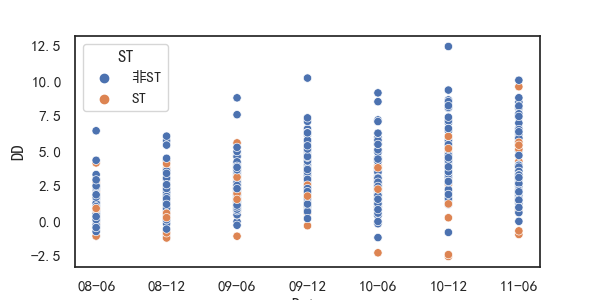
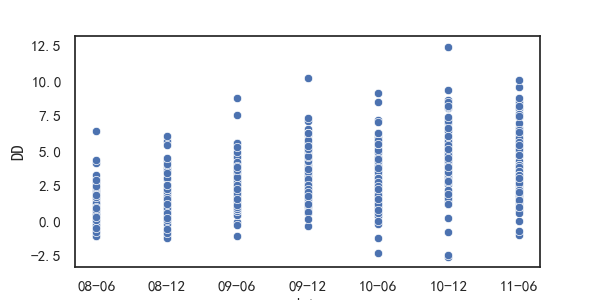
完成文字稿

diff --git a/src/kmv.py b/src/kmv.py
@@ -56,7 +56,7 @@ if __name__ == "__main__":
     model = KMV()
     dd = model.distance_to_default()
     res = dd.stack().reset_index()
-    res.columns = ["Date", "Stock", "DD"]
+    res.columns = ["date", "Stock", "DD"]
     st = (
         pd.read_excel(
             project_root / "data/sts.xlsx", usecols=["stock", "name", "date", "enddate"]
@@ -65,10 +65,13 @@ if __name__ == "__main__":
         .to_dict()
     )
     res["ST"] = res.apply(
-        lambda x: "ST" if model.label[x["Stock"]] in st["name"] else "非ST",
+        lambda x: "ST"
+        if (temp := model.label[x["Stock"]]) in st["name"]
+        and st["date"][temp] <= x["date"] <= st["enddate"][temp]
+        else "非ST",
         axis=1,
     )
-    res["Date"] = res["Date"].dt.strftime("%y-%m")
-    fig = sns.scatterplot(data=res, x="Date", y="DD", hue="ST").get_figure()
+    res["date"] = res["date"].dt.strftime("%y-%m")
+    fig = sns.scatterplot(data=res, x="date", y="DD").get_figure()
     fig.savefig(project_root / "img/dd.png")
 # %%

diff --git a/results/pearsons.tex b/results/pearsons.tex
@@ -1,8 +1,11 @@
-\begin{tabular}{lrrrrrrr}
-\toprule
-{} &  2008-06-30 &  2008-12-31 &  2009-06-30 &  2009-12-31 &  2010-06-30 &  2010-12-31 &  2011-06-30 \\
-\midrule
-pearsonr &   -0.265334 &   -0.221167 &   -0.410335 &   -0.230768 &   -0.354095 &   -0.444828 &   -0.464128 \\
-pvalue   &    0.016667 &    0.047233 &    0.000142 &    0.038201 &    0.001182 &    0.000032 &    0.000013 \\
-\bottomrule
+\begin{tabular}{lrrrr}
+    \toprule
+    {}       & 2008-06-30 & 2008-12-31 & 2009-06-30 & 2009-12-31 \\
+    pearsonr & -0.265334  & -0.221167  & -0.410335  & -0.230768  \\
+    pvalue   & 0.016667   & 0.047233   & 0.000142   & 0.038201   \\
+    \midrule
+    {}       & 2010-06-30 & 2010-12-31 & 2011-06-30 &            \\
+    pearsonr & -0.354095  & -0.444828  & -0.464128  &            \\
+    pvalue   & 0.001182   & 0.000032   & 0.000013   &            \\
+    \bottomrule
 \end{tabular}

diff --git a/results/pearsons_vol.tex b/results/pearsons_vol.tex
@@ -1,8 +1,11 @@
-\begin{tabular}{lrrrrrrr}
+\begin{tabular}{lrrrr}
 \toprule
-{} &  2008-06-30 &  2008-12-31 &  2009-06-30 &  2009-12-31 &  2010-06-30 &  2010-12-31 &  2011-06-30 \\
+{} &  2008-06-30 &  2008-12-31 &  2009-06-30 &  2009-12-31  \\
+pearsonr &   -0.023419 &   -0.312969 &   -0.254424 &   -0.184716\\
+pvalue   &    0.835603 &    0.004444 &    0.021901 &    0.098770\\
 \midrule
-pearsonr &   -0.023419 &   -0.312969 &   -0.254424 &   -0.184716 &   -0.249410 &   -0.121688 &   -0.327771 \\
-pvalue   &    0.835603 &    0.004444 &    0.021901 &    0.098770 &    0.024741 &    0.279166 &    0.002817 \\
+{} &  2010-06-30 &  2010-12-31 &  2011-06-30 &\\
+pearsonr &  -0.249410 &   -0.121688 &   -0.327771& \\
+pvalue   &   0.024741 &    0.279166 &    0.002817& \\
 \bottomrule
 \end{tabular}

diff --git a/results/table_11.tex b/results/table_11.tex
@@ -1,7 +1,6 @@
 \begin{tabular}{lrr}
 \toprule
-{} &     alpha &      beta \\
-日期         &           &           \\
+{} &     $\alpha$ &      $\beta$ \\
 \midrule
 2008-06-30 &  0.000000 &  0.800000 \\
 2008-12-31 &  0.000000 &  0.723684 \\
